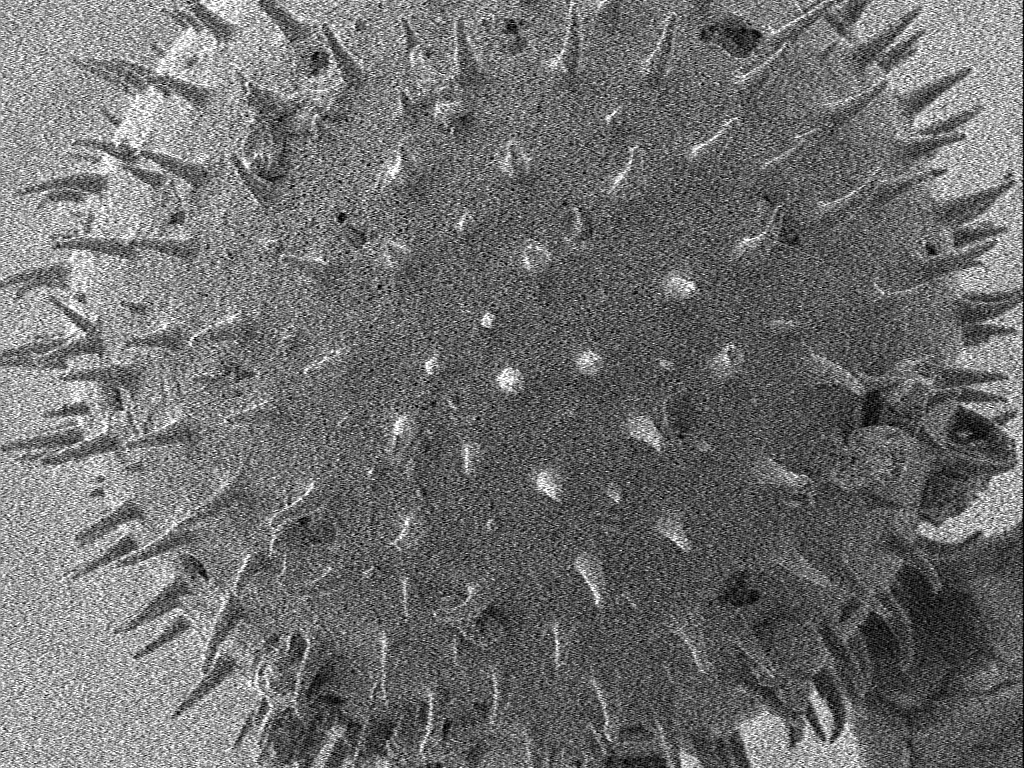
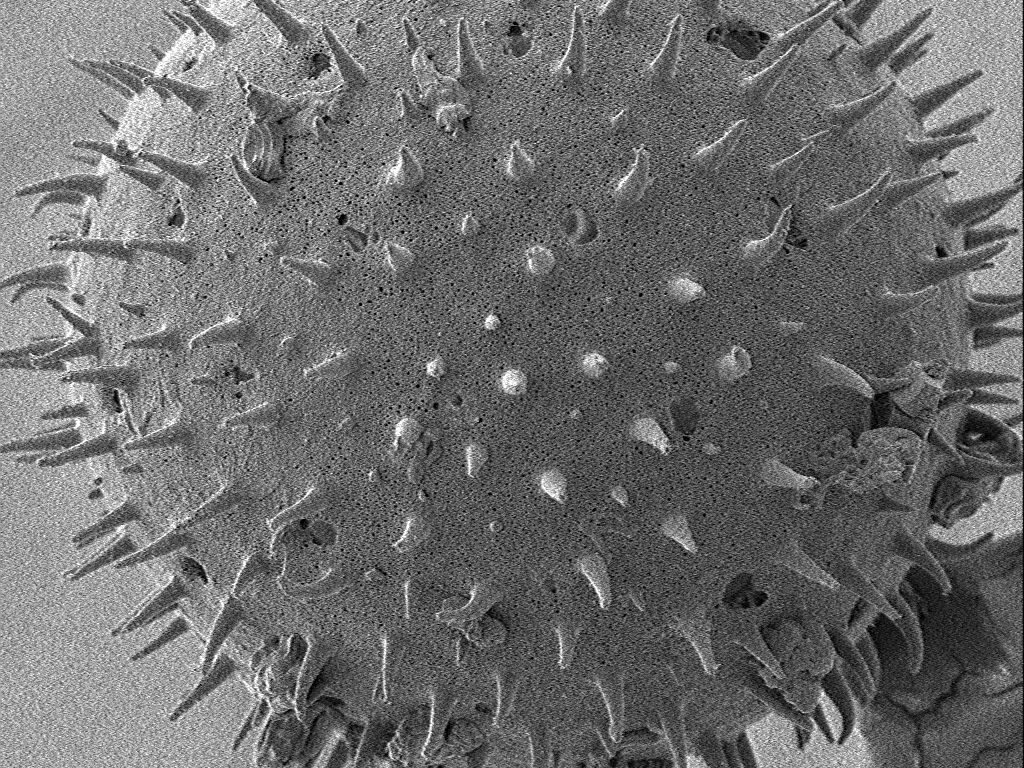
--self2self added

diff --git a/evaluation.py b/evaluation.py
@@ -1,0 +1,17 @@
+import cv2
+import sys
+from skimage.metrics import structural_similarity
+from skimage.metrics import peak_signal_noise_ratio
+
+def calculate_psnr_ssim(im1,im2):
+    img1 = cv2.imread(im1)
+    img2 = cv2.imread(im2)
+    PNSR = peak_signal_noise_ratio(img1, img2)
+    SSIM = structural_similarity(img1, img2, multichannel=True)
+    return PNSR,SSIM
+
+
+image1 = sys.argv[1]
+image2 = sys.argv[2]
+PNSR,SSIM = calculate_psnr_ssim(image1,image2)
+print("PSNR: " + str(PNSR) + " and SSIM: " + str(SSIM))

diff --git a/sota/Self2Self/demo_denoising.py b/sota/Self2Self/demo_denoising.py
@@ -11,7 +11,7 @@ TF_DATA_TYPE = tf.float32
 LEARNING_RATE = 1e-4
 N_PREDICTION = 100
 N_SAVE = 1000
-N_STEP = 30000
+N_STEP = 25000
 
 
 def train(file_path, dropout_rate, sigma=25, is_realnoisy=False):
